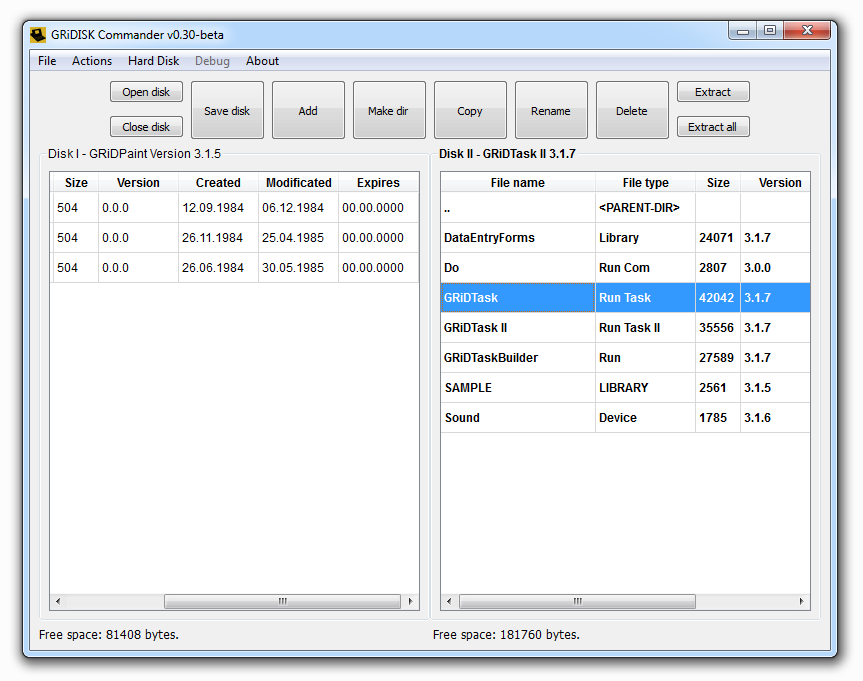
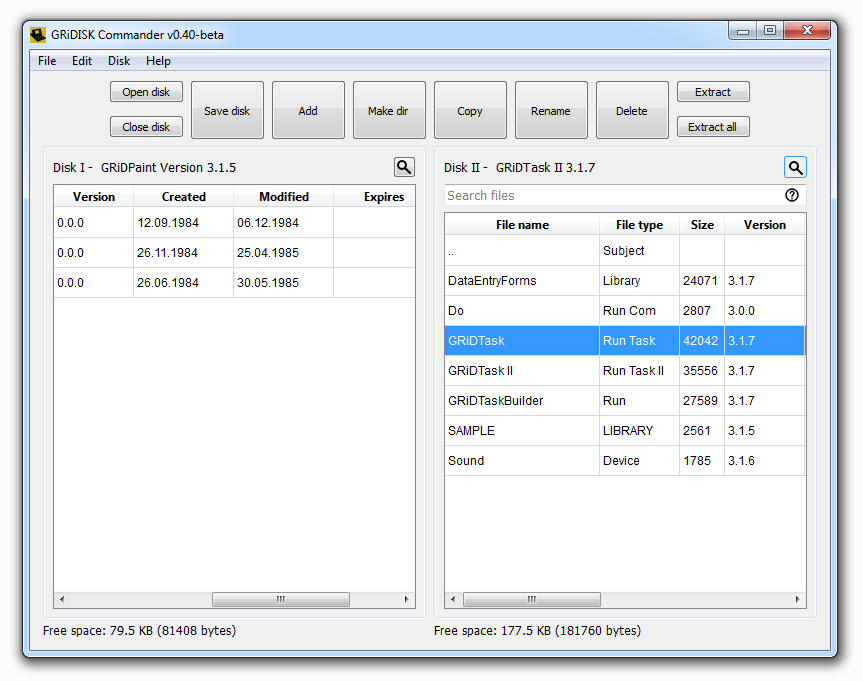
New "About" dialog, version bump

Changed region(s): [[0.0301, 0.2159, 0.9641, 0.9559], [0.0904, 0.0617, 0.3314, 0.0925]]

diff --git a/ui/dialogs/about.h b/ui/dialogs/about.h
@@ -5,7 +5,7 @@
 #include <QUrl>
 #include "ui_about.h"
 
-#define _PVER_ "0.30-beta"
+#define _PVER_ "0.40-beta"
 
 namespace Ui {
 class AboutDlg;
